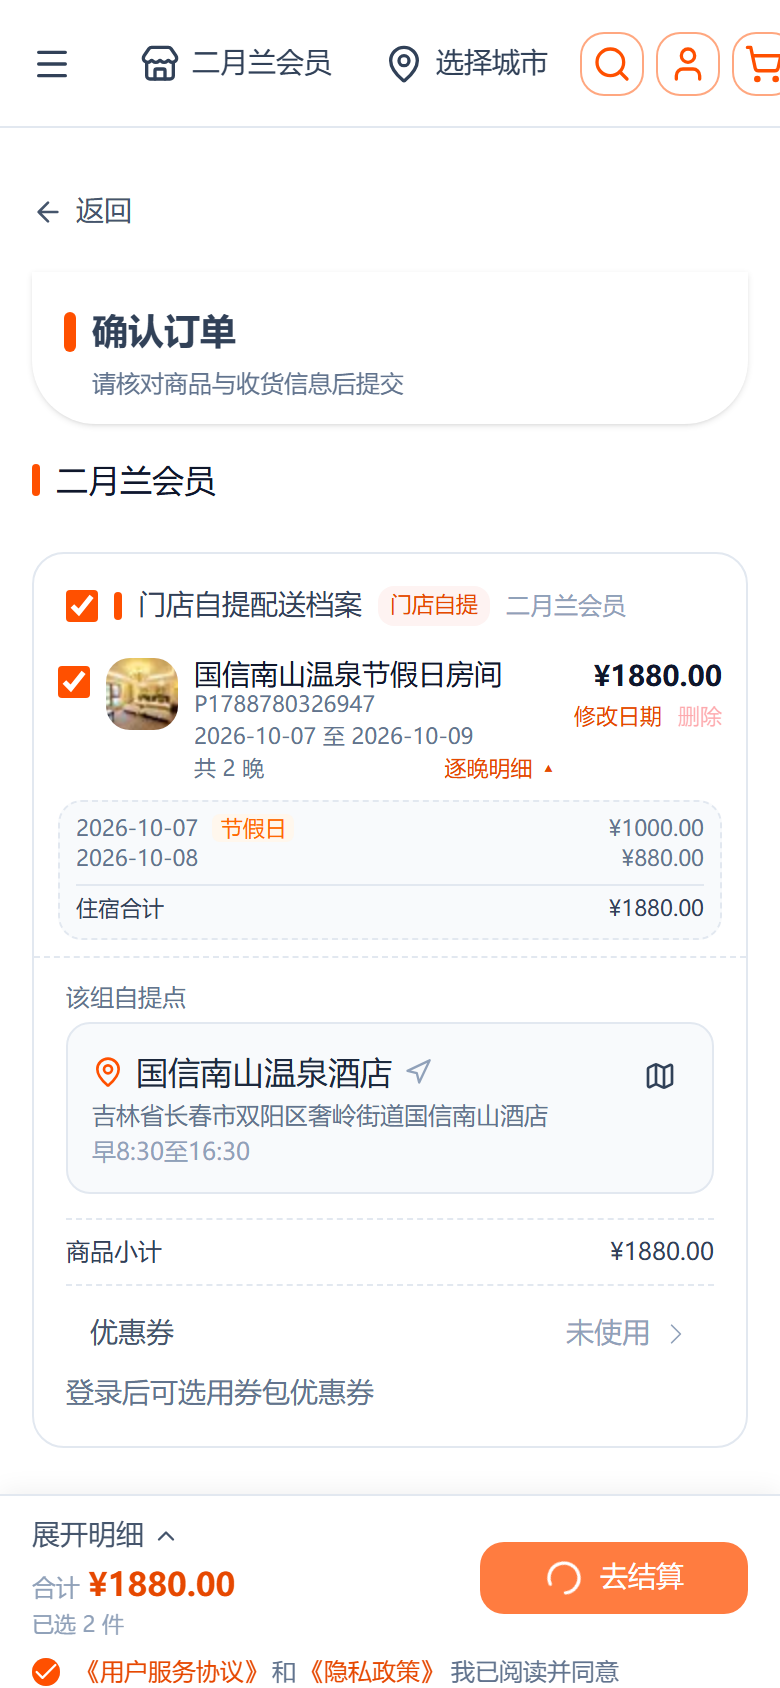
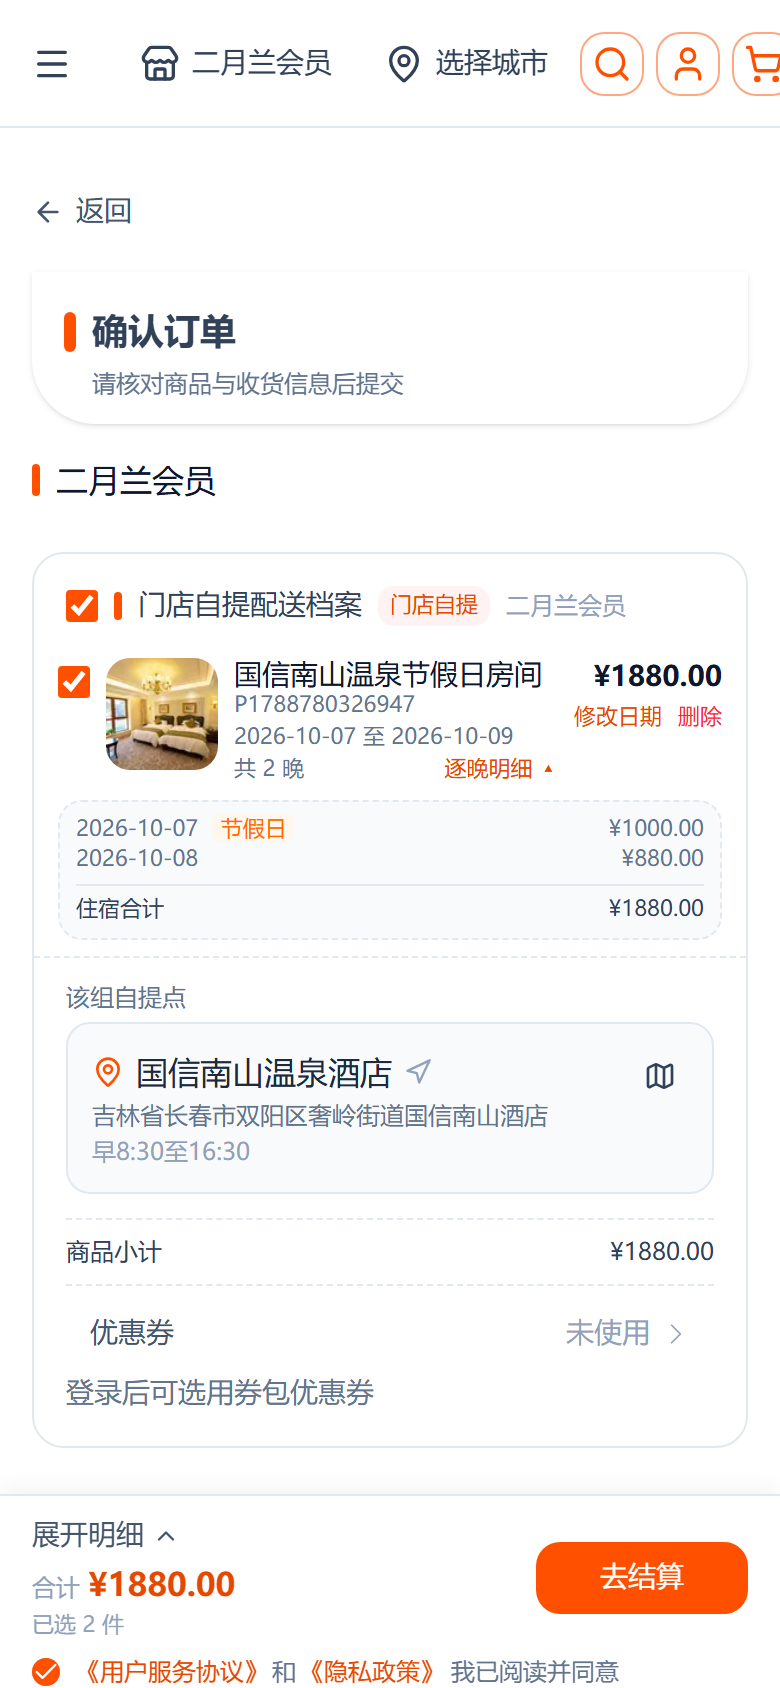
docs(hotel): 补记结算页普通商品行折行布局 + 缩略图放大
- 手册 6.5 重写为折行布局说明（含 A/B/C 选型表、实机断言输出、56px 缩略图与 pl-22 缩进推导）
- 手册 6.6 已知边界改为「商品行第二行宽度的多语言余量」
- 手册 6.9 更正「普通商品行不加 flex-wrap」的旧表述
- 计划文档追加「收口补记 · 普通商品行折行布局 + 缩略图放大」
- 录图脚本 06 段新增缩略图 56×56 / 商品名可用宽 ≥200px / 折行 三条断言；加购加 3 次重试避免 hydration 竞态
- 重出 01-06 截图为 56px 缩略图版本（780×1688）

Changed region(s): [[0.1231, 0.3697, 0.7077, 0.4621], [0.6154, 0.8934, 0.9846, 0.955], [0.8615, 0.4005, 0.9231, 0.4313]]

diff --git a/docs/manual/product-detail/index.md b/docs/manual/product-detail/index.md
@@ -274,21 +274,45 @@ node scripts/_shot-hotel-checkout.mjs     # 默认 BASE=https://www.youshop.cn/t
 
 可用环境变量覆盖：`BASE`、`HOTEL_SLUG`、`CHECK_IN`、`CHECK_OUT`。脚本内含页面文本断言（详情页 ¥1880 / ¥1000 / ¥880，购物车「共 2 晚」/1880.00，结算页展开后「住宿合计」/1880.00），断言失败以非 0 退出码结束。
 
-### 6.5 普通商品回归
+### 6.5 普通商品行：390px 折行布局 + 缩略图放大（2026-10-01）
 
-接口层：取 t2 渠道非酒店变体（`温泉门票` variantId=57）加购，断言：`isHotel === false`、`hotelNightly` 为空（`null` 或空数组，GraphQL 列表类型查询需带子字段）、`linePriceWithTax === unitPriceWithTax × quantity`。结果 3 条全 PASS。
+**改前**：商品行 `<li>` 为 `flex`（默认 `nowrap`），「单价 / 步进器 / 行小计（`w-14`）/ 删除」四个 `shrink-0` 块与商品名同排。390px 下固定块 + 间距 + 内边距合计约 317px，中间描述列只剩约 49px，商品名被 `truncate` 到约 1 个字——**改动前既有问题**，非酒店行改动引入。
 
-页面层（为防止 6.9 的 `flex-wrap` 改动波及普通商品行，另加一次实机回归）：同一录图脚本新开干净会话加购该普通商品，进结算页截图并断言「商品名 / 单价 / 增加数量 / 减少数量 / 行小计 / 删除」齐全，且「增加数量」按钮与单价在同一水平带（y 中心差 < 12px，实测 0.0px）。
+**改后（方案 A · 折行式）**：
+- `<li>` 统一 `flex-wrap`；普通商品行的价格与操作包进 `basis-full` 第二行容器，左缩进 `pl-22`（= 勾选 16 + gap 8 + 缩略图 56 + gap 8 = 88px），与商品名左边缘对齐。
+- 缩略图 36px → **56px**（`h-14 w-14`）；取图宽度同步 `assetSrc(full, 48)` → `128`（56px @dpr2 的 2× 位图，避免放大发虚）。
+- 第二行加 `flex-wrap` 兜底多语言：en-US `messages.account.delete` 为 "Delete"，比「删除」宽约 14px，单行放不下时换行而非溢出容器。
 
-![结算页普通商品行回归：单价 ¥168.00、步进器、行小计 ¥336.00 同排，未受酒店行改动影响](../shots/2026-09-30-hotel-orderline/06-checkout-normal-product.png)
+**版式选型**（按「设计变更先出内联 mockup 定稿」规范，先出 A/B/C 三版式内联预览后由用户选定）：
 
-- 结论：`flex-wrap` 仅作用于酒店行（`:class="l.isHotel ? …"`），普通商品行渲染与改动前一致，无回归。
-- 该图同时暴露一个**改动前既有**问题：普通商品行的商品名称被右侧固定列（单价/步进器/小计/删除）挤压到约 1 个字宽后被 `truncate` 省略（见 6.6 已知边界）。
+| 方案 | 换取方式 | 商品名可用宽 | 代价 |
+|---|---|---|---|
+| **A 折行式（选用）** | 行高换宽度 | 实测 244px（约 17 字） | 列表变长（多一行） |
+| B 右列纵排 | 右列高度换宽度 | 估算 ≈212px | 行高最高 |
+| C 极简单行 | 操作可见性换宽度 | 估算 ≈124px | 删除降为图标，仍仅约 8 字 |
+
+**实机断言**（生产 t2，390×844 dpr=2，`scripts/_shot-hotel-checkout.mjs` 06 段）：
+
+```
+PASS  普通商品-缩略图 56×56：实际 56×56
+PASS  普通商品-商品名可用宽 ≥200px：实际 244.0px（改造前约 49px，仅容 1 字）
+PASS  普通商品-折行：商品名独占首行，价格与操作折到第二行（y 中心差 69.2px）
+PASS  普通商品-操作行同带：单价与步进器并排于第二行（y 中心差 0.0px）
+PASS  普通商品-行小计：命中「¥336.00」（= 单价 ¥168.00 × 2）
+PASS  06-checkout-normal-product.png 尺寸：780×1688（期望 780×1688）
+```
+
+**接口层回归**：取 t2 渠道非酒店变体（`温泉门票` variantId=57）加购，断言 `isHotel === false`、`hotelNightly` 为空（`null` 或空数组，GraphQL 列表类型查询需带子字段）、`linePriceWithTax === unitPriceWithTax × quantity`，3 条全 PASS。
+
+![结算页普通商品行：56px 缩略图、商品名独占首行，单价 ¥168.00 / 步进器 / 行小计 ¥336.00 / 删除 折到第二行右对齐](../shots/2026-09-30-hotel-orderline/06-checkout-normal-product.png)
+
+- 商品名实测可用宽 244px（视口 390px 减去纵向滚动条后为 375px），可完整显示「国信南山温泉工作日门票」11 字，不再截断。
+- 酒店行未改结构（仍为「描述列 + 右列金额」），仅缩略图随组件一并放大到 56px，见 6.2 第 3、4 张图。
 
 ### 6.6 已知边界
 
 - **i18n 兜底**：`messages.hotel.*`（`nights / dateRange / nightlyDetail / changeDates / stayTotal / selectDatesFirst / nightsOutOfRange`）目前**仅 `zh-CN` 与 `en-US` 两个语言包完整定义**，其余语言包未定义该命名空间，按回退链落到中文兜底（`merge.ts` 以中文为基底深合并）；新增语言时需同步补词条。
-- **普通商品行描述列过窄（改动前既有，未修）**：结算页 `BoxLines.vue` 普通商品行在 390px 下，右侧固定列（单价 / 步进器 / 行小计 `w-14` / 删除）合计已占满行宽，中间描述列被压到约 1 字宽后被 `truncate` 省略，商品名几乎不可读（见 6.5 截图）。本次仅修了酒店行，**普通商品行布局改动属设计变更，需先出 mockup 定稿后再改**。
+- **商品行第二行宽度的多语言余量**：普通商品行第二行（单价 / 步进器 / 小计 / 删除）在 zh-CN 下几乎占满可用宽（实测右边缘余量约 2px）。更长语言（如 en-US "Delete"）靠该行 `flex-wrap` 换行兜底，不会溢出容器；若某语言的单价或小计位数显著更长，需重新核算该行宽度预算。
 
 ### 6.7 本次线上 500 缺陷记录
 
@@ -315,8 +339,9 @@ node scripts/_shot-hotel-checkout.mjs     # 默认 BASE=https://www.youshop.cn/t
 首次归档的截图为默认 1 晚且结算页展开态出现「日期文案逐字竖排换行」。复盘为两个独立问题，均已修复并重新部署：
 
 - **口径问题（证据不实）**：原录图脚本未设置入离日期，取到详情页默认 1 晚，未能复现用户报的 2 晚/节假日场景。→ 脚本改为用查询串预填日期（`?checkIn=&checkOut=`）并加页面文本断言；服务端 `priceCalendar` 追加国庆段（见 6.3）使场景在 C 端可选范围内真实可复现。
-- **布局缺陷（真实代码问题）**：`layers/base/app/components/checkout/BoxLines.vue` 的商品行 `<li>` 是 `flex`（默认 `nowrap`），展开的「逐晚明细」块虽写了 `w-full basis-full` 却**无法换行**，被压缩挤在同一行内，导致中间描述列宽度趋近于 0、日期文案逐字竖排；同时酒店行多了一个独立「共 N 晚」定宽列（`w-14`），进一步挤占描述列。→ 修法：酒店行的 `<li>` 追加 `flex-wrap`（普通商品行不加，保持原单行布局）；去掉独立晚数列，把「共 N 晚」并入描述列与「逐晚明细」同排；日期行加 `truncate`、操作行加 `whitespace-nowrap` 兜底。
-- 修复后：折叠态日期单行显示、展开态明细块独占整行横跨（见 6.2 第 3、4 张图）；普通商品行未受影响。
+- **布局缺陷（真实代码问题）**：`layers/base/app/components/checkout/BoxLines.vue` 的商品行 `<li>` 是 `flex`（默认 `nowrap`），展开的「逐晚明细」块虽写了 `w-full basis-full` 却**无法换行**，被压缩挤在同一行内，导致中间描述列宽度趋近于 0、日期文案逐字竖排；同时酒店行多了一个独立「共 N 晚」定宽列（`w-14`），进一步挤占描述列。→ 修法：商品行 `<li>` 追加 `flex-wrap`（当时只在酒店行加，普通商品行于 6.5 改为折行布局后同样依赖它）；去掉独立晚数列，把「共 2 晚」并入描述列与「逐晚明细」同排；日期行加 `truncate`、操作行加 `whitespace-nowrap` 兜底。
+- 修复后：折叠态日期单行显示、展开态明细块独占整行横跨（见 6.2 第 3、4 张图）。
+- 同一轮回归截图暴露普通商品行「商品名被挤到约 1 个字」，已按 6.5 出内联 mockup 定稿后修复（方案 A 折行式），`<li>` 的 `flex-wrap` 改为两分支共用。
 
 
 ---
